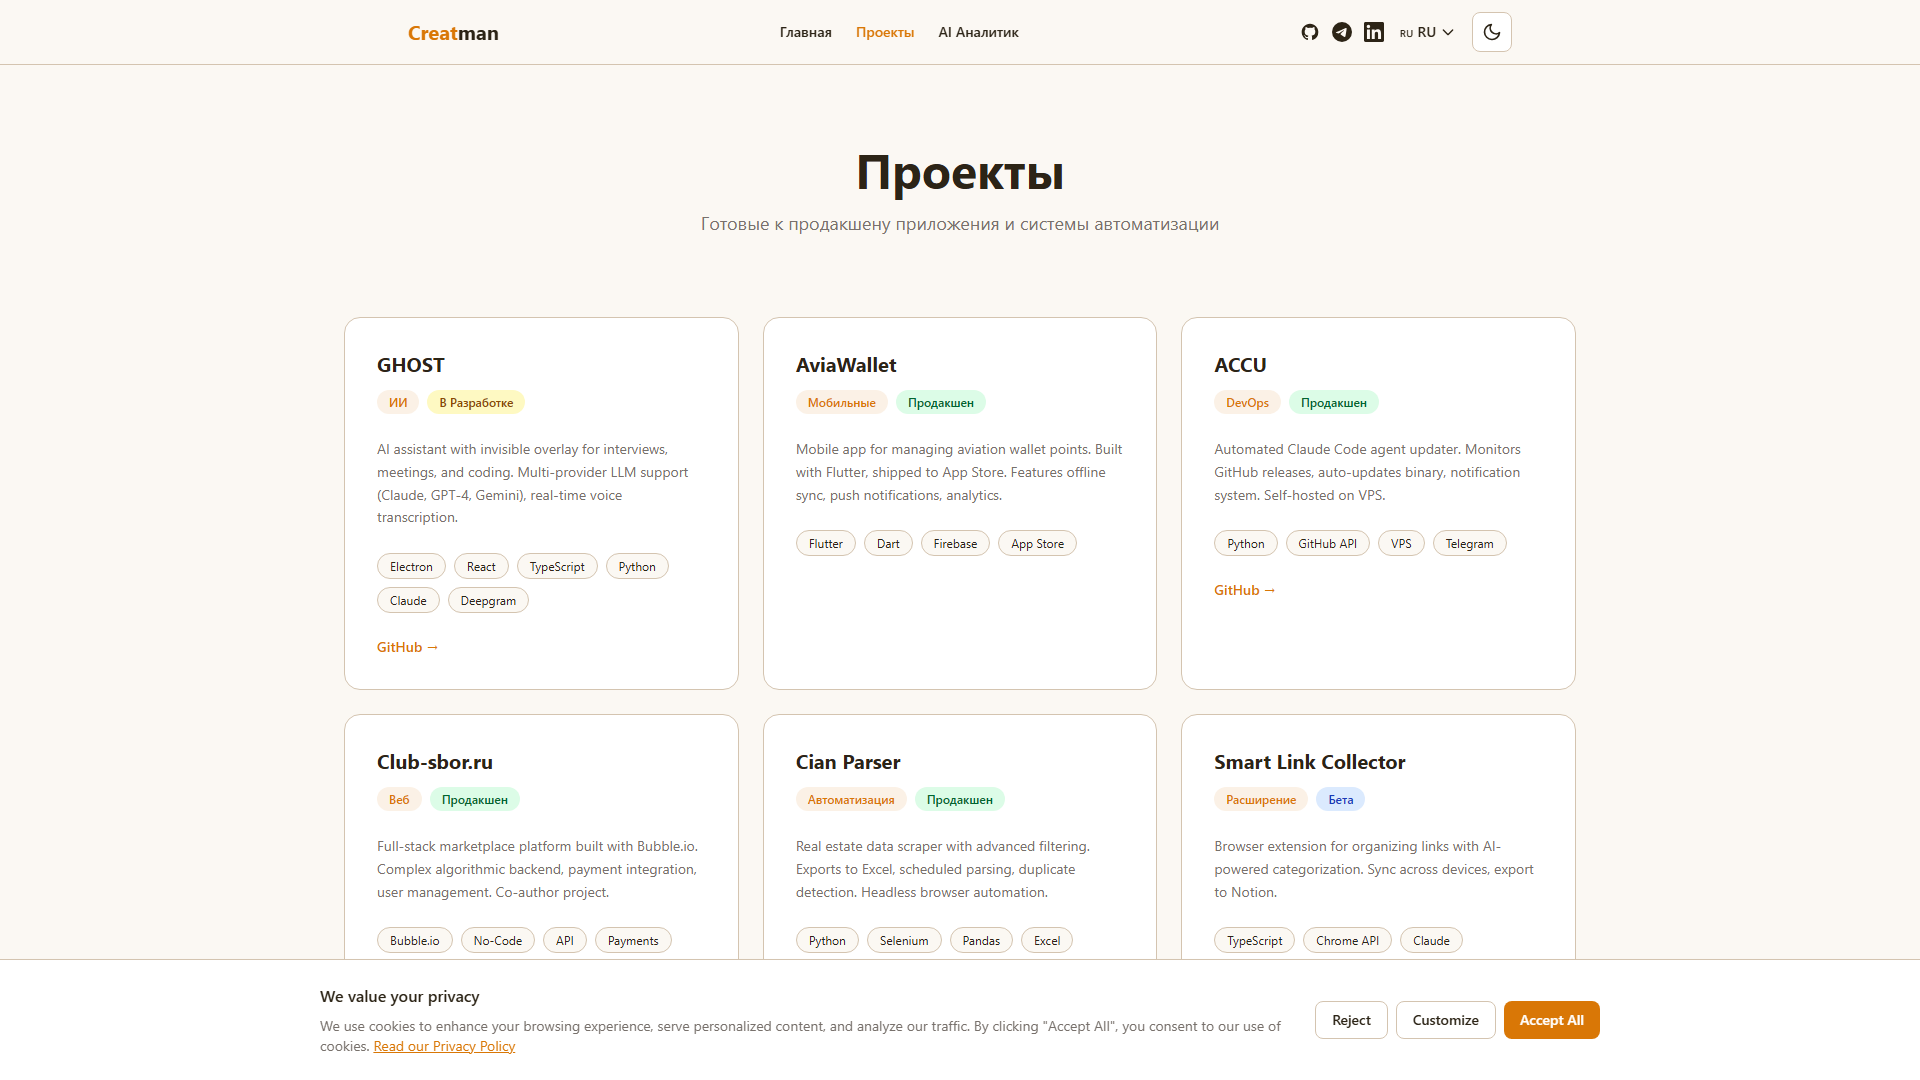
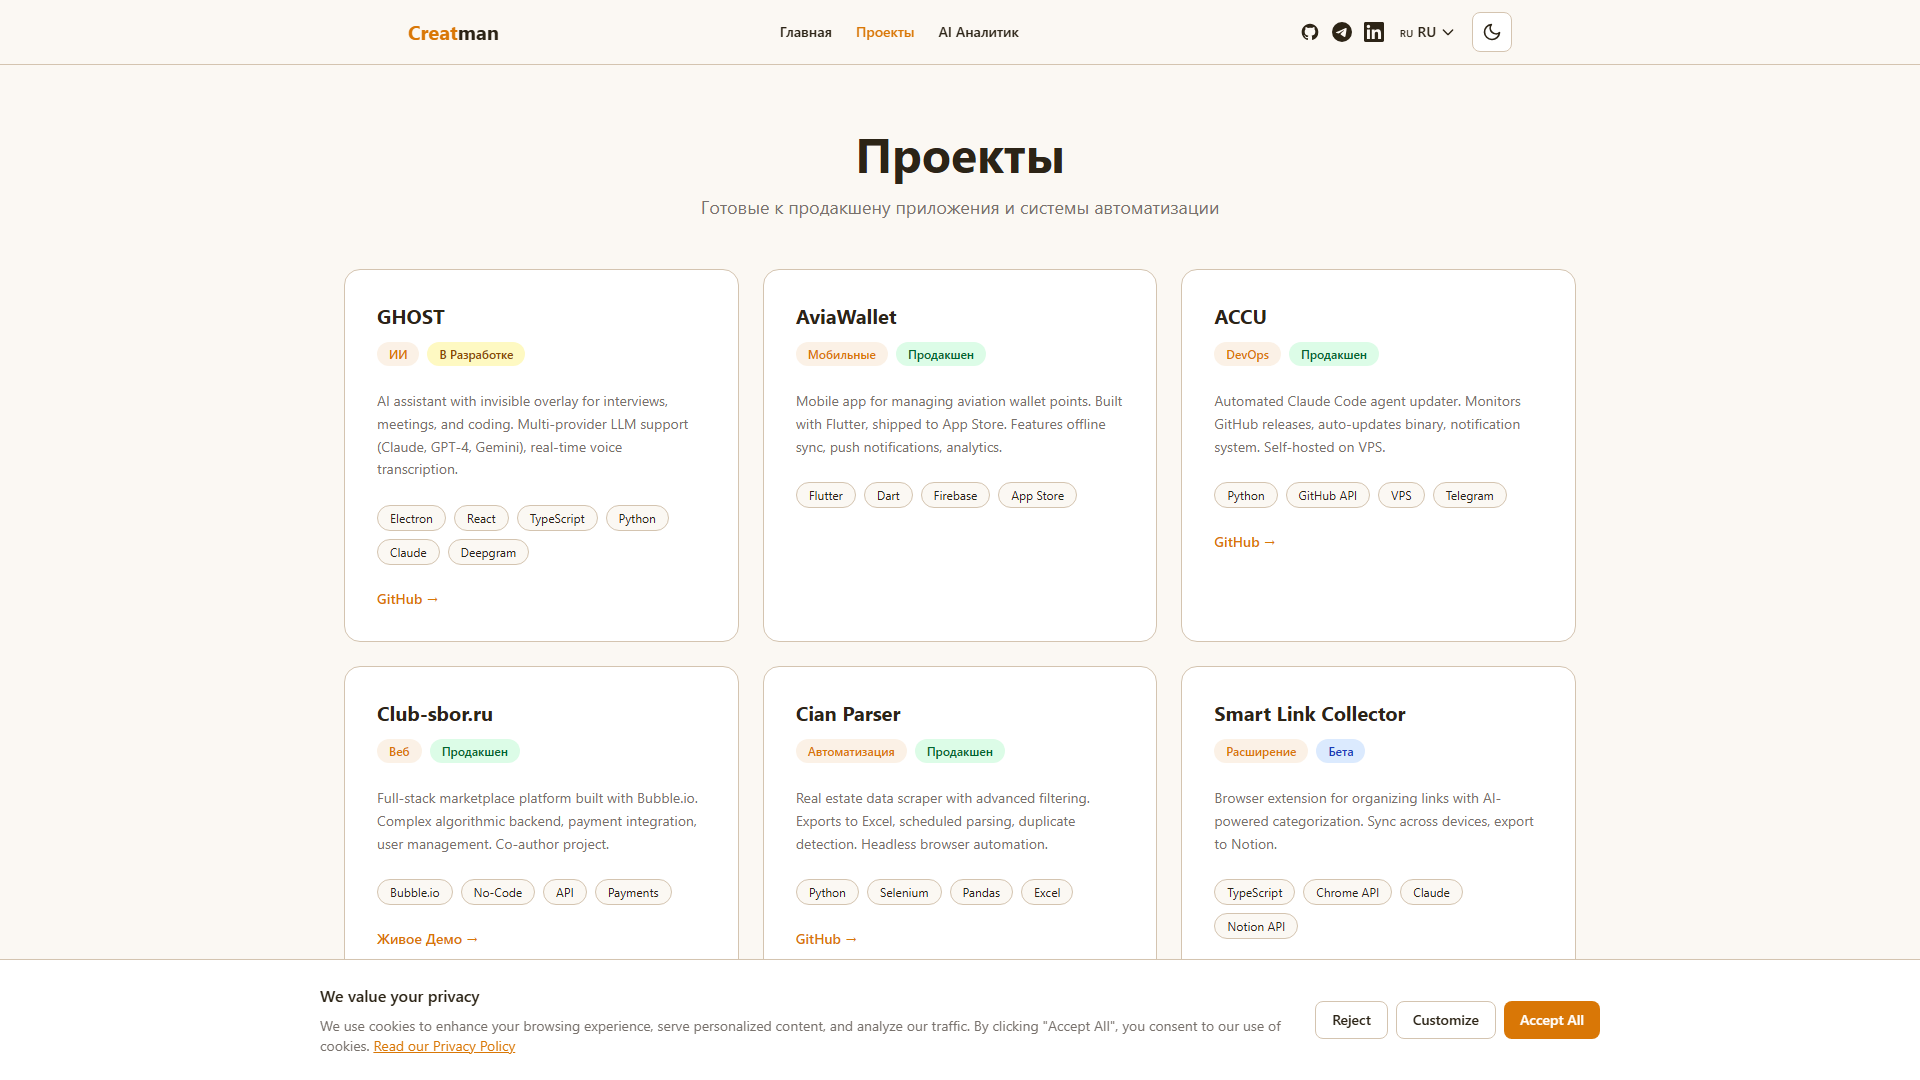
fix: correct Gemini model name to gemini-1.5-flash-latest
Error: models/gemini-1.5-flash not found for API v1beta
Solution: Use gemini-1.5-flash-latest instead

diff --git a/src/app/api/analyze-code/route.ts b/src/app/api/analyze-code/route.ts
@@ -50,7 +50,7 @@ ${code}
     console.log("[API /analyze-code] Starting Gemini AI analysis...");
 
     const genAI = new GoogleGenerativeAI(apiKey);
-    const model = genAI.getGenerativeModel({ model: "gemini-1.5-flash" });
+    const model = genAI.getGenerativeModel({ model: "gemini-1.5-flash-latest" });
 
     const encoder = new TextEncoder();
     const readable = new ReadableStream({
